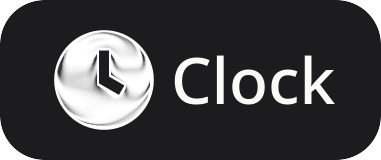
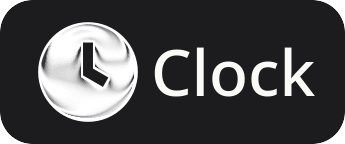
Tighten badge padding and space README sections

diff --git a/README.md b/README.md
@@ -2,10 +2,12 @@
 
 Minimal, private system apps for a GrapheneOS-like Android ROM. No Google, no network, no tracking.
 
+<br>
+
 <p align="center">
   <picture>
     <source media="(prefers-color-scheme: dark)" srcset="apps/clock/readme/badge-dark.png">
-    <img src="apps/clock/readme/badge-light.png" width="190" alt="Clock">
+    <img src="apps/clock/readme/badge-light.png" width="172" alt="Clock">
   </picture>
 </p>
 
